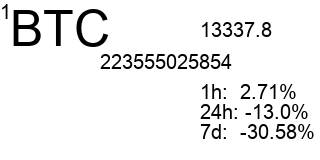
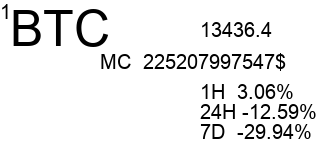
update

Changed region(s): [[0.6562, 0.5, 1.0, 0.875], [0.3125, 0.3125, 0.9062, 0.4375], [0.6875, 0.125, 0.8438, 0.25]]

diff --git a/img_creation.py b/img_creation.py
@@ -1,7 +1,6 @@
 from PIL import Image, ImageDraw, ImageFont
 import requests
 from bs4 import BeautifulSoup
-import json
 
 URL = 'https://api.coinmarketcap.com/v1/ticker/bitcoin/'
 
@@ -19,7 +18,7 @@ def get_html(url):
 def get_image(name):
     url = 'https://coinmarketcap.com/'
     r = requests.get(url)
-    soup = BeautifulSoup('lxml', r.text)
+    soup = BeautifulSoup(r.text, 'lxml')
     image = soup.find('a', text=name).parent.parent.find('img').attrs['src']
     return image
 
@@ -32,27 +31,27 @@ img = Image.new("RGBA", (320, 160), (0, 0, 0, 0))
 draw = ImageDraw.Draw(img)
 
 rq = requests.get(URL).json()[0]
-_id = rq['id']
+_id = rq['id'][0].title() + rq['id'][1:]
+print(_id)
 price_usd = rq['price_usd']
 rank = rq['rank']
 symbol = rq['symbol']
 market_cap_usd = rq['market_cap_usd']
+volume_usd_24h = rq['24h_volume_usd']
 percent_change_1h = rq['percent_change_1h']
 percent_change_24h = rq['percent_change_24h']
 percent_change_7d = rq['percent_change_7d']
 img = Image.open(get_image(_id))
 
-
 draw_text(draw, (10, 0), text=symbol, size=50)
 draw_text(draw, (0, 0), text=rank)
 draw_text(draw, (200, 18), text=price_usd)
-draw_text(draw, (200, 80), text='1h:  ' + percent_change_1h + '%')
-draw_text(draw, (200, 100), text='24h: ' + percent_change_24h + '%')
-draw_text(draw, (200, 120), text='7d:  ' + percent_change_7d + '%')
-draw_text(draw, (100, 50), text=market_cap_usd)
+draw_text(draw, (200, 80), text='1H  ' + percent_change_1h + '%')
+draw_text(draw, (200, 100), text='24H ' + percent_change_24h + '%')
+draw_text(draw, (200, 120), text='7D  ' + percent_change_7d + '%')
+draw_text(draw, (100, 50), text='MC  ' + market_cap_usd + '$')
+draw_text(draw, (100, 70), text='VOL  ' + market_cap_usd + '$')
 draw.bitmap((50, 50), img.bitmap(), fill=None)
-
-
 
 del draw
 img.save("test.png", "PNG")
